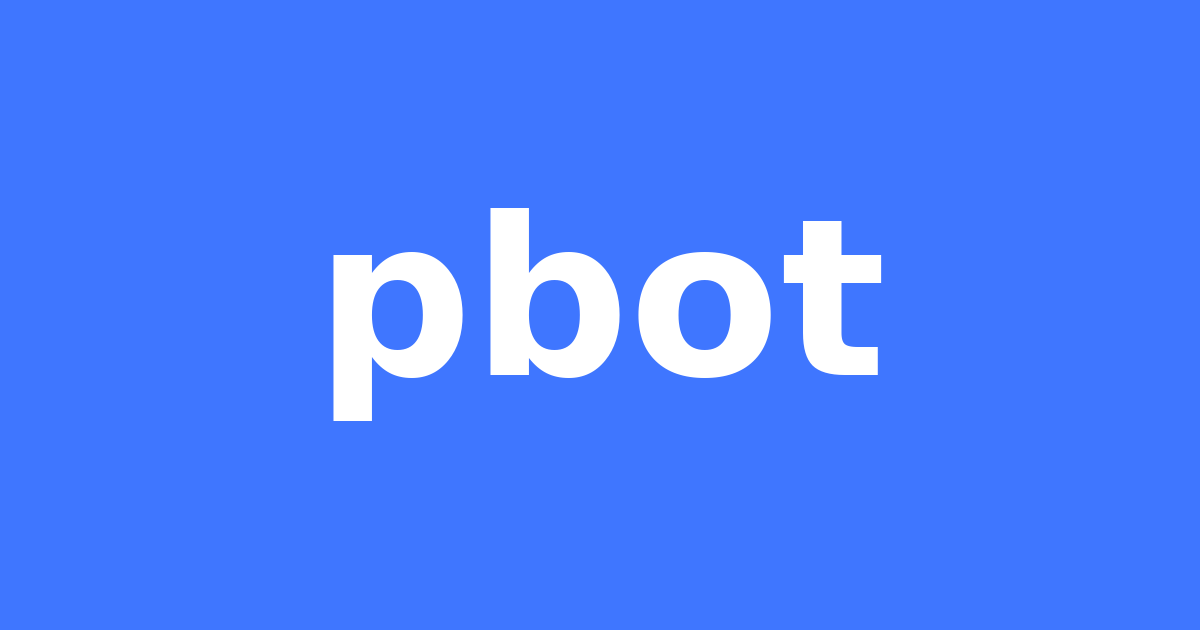
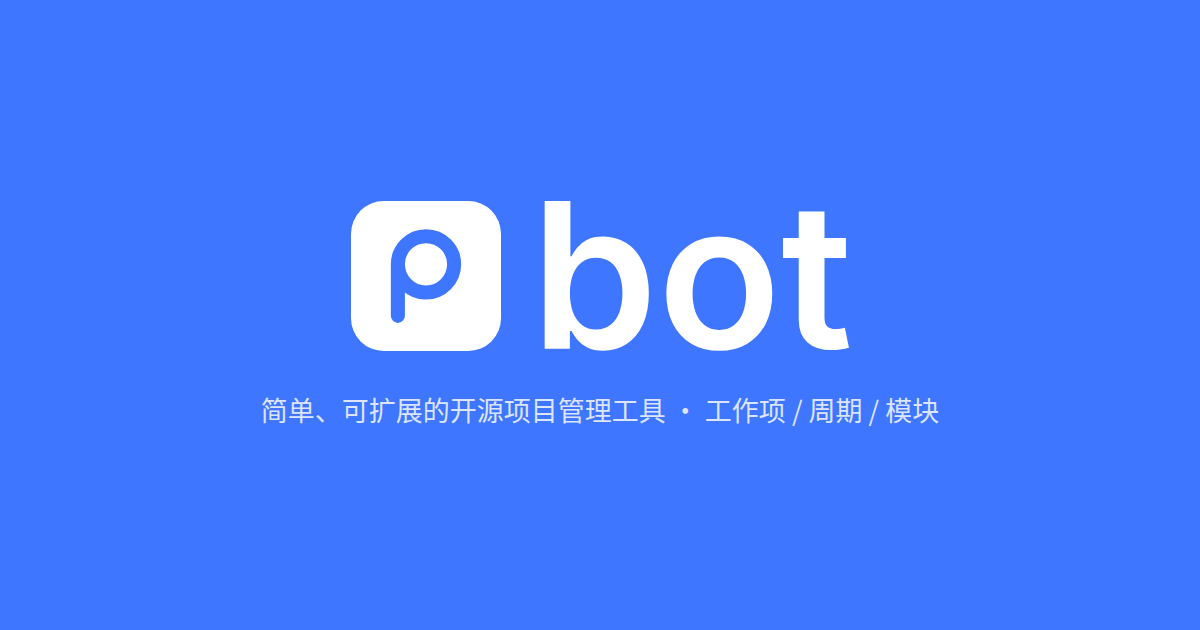
feat(web): branding assets + Dockerfile.web WIP
Replaces app+public brand surfaces (favicons, icons, og-image,
plane-mobile-pwa, gradient-logo) with the planebot mark; carries the
deployed sizes verbatim, no optimization pass.

Consumers:
- common/logo-spinner swaps to the planebot spinner
- workspace/edition-badge: drops the PaidPlanUpgradeModal trigger on
  self-managed instances (instanceConfig.is_self_managed gates it);
  the tooltip aria label is aria_labels.projects_sidebar.edition_badge
- account/auth-forms/mfa: handleCSRFToken gains a Promise<boolean>
  return; cache is dropped on failure and a translated
  auth.mfa.errors.csrf_token banner is shown instead of failing
  silently
- onboarding/header: wires the new branding

Build fix:
- Dockerfile.web now COPY patches patches (root postinstall runs the
  hand-applied patches; without the directory present the pnpm fetch
  cache step had nothing to land against) and pre-builds
  packages/utils so the Next web build has its dist.

Changed region(s): [[0.2158, 0.3016, 0.74, 0.6937], [0.5858, 0.6333, 0.8017, 0.6937]]

diff --git a/apps/web/core/components/workspace/edition-badge.tsx b/apps/web/core/components/workspace/edition-badge.tsx
@@ -10,6 +10,7 @@ import { observer } from "mobx-react";
 import { useTranslation } from "@plane/i18n";
 import { Tooltip } from "@makeplane/propel/components/tooltip";
 // hooks
+import { useInstance } from "@/hooks/store/use-instance";
 import { usePlatformOS } from "@/hooks/use-platform-os";
 import packageJson from "package.json";
 // local components
@@ -19,23 +20,30 @@ import { PaidPlanUpgradeModal } from "@/components/license/modal/upgrade-modal";
 export const WorkspaceEditionBadge = observer(function WorkspaceEditionBadge() {
   // states
   const [isPaidPlanPurchaseModalOpen, setIsPaidPlanPurchaseModalOpen] = useState(false);
+  // store hooks
+  const { config: instanceConfig } = useInstance();
   // translation
   const { t } = useTranslation();
   // platform
   const { isMobile } = usePlatformOS();
+  // This fork has no paid tier of its own: on a self-managed instance the badge is
+  // a version label only and must never lead to a purchase flow.
+  const canUpgradePlan = !instanceConfig?.is_self_managed;
 
   return (
     <>
-      <PaidPlanUpgradeModal
-        isOpen={isPaidPlanPurchaseModalOpen}
-        handleClose={() => setIsPaidPlanPurchaseModalOpen(false)}
-      />
+      {canUpgradePlan && (
+        <PaidPlanUpgradeModal
+          isOpen={isPaidPlanPurchaseModalOpen}
+          handleClose={() => setIsPaidPlanPurchaseModalOpen(false)}
+        />
+      )}
       <Tooltip label={`Version: v${packageJson.version}`} disabled={isMobile}>
         <Button
           variant="tertiary"
           size="lg"
-          onClick={() => setIsPaidPlanPurchaseModalOpen(true)}
-          aria-haspopup="dialog"
+          onClick={canUpgradePlan ? () => setIsPaidPlanPurchaseModalOpen(true) : undefined}
+          aria-haspopup={canUpgradePlan ? "dialog" : undefined}
           aria-label={t("aria_labels.projects_sidebar.edition_badge")}
         >
           Community

diff --git a/apps/web/core/components/account/auth-forms/mfa.tsx b/apps/web/core/components/account/auth-forms/mfa.tsx
@@ -63,12 +63,28 @@ export const MFAForm = observer(function MFAForm() {
     }
   }, [searchParams, t]);
 
-  const handleCSRFToken = async () => {
-    if (!formRef || !formRef.current) return;
-    const token = await csrfPromise;
-    if (!token?.csrf_token) return;
+  const handleCSRFToken = async (): Promise<boolean> => {
+    if (!formRef || !formRef.current) return false;
+
+    let token: { csrf_token?: string } | undefined;
+    try {
+      token = await csrfPromise;
+    } catch (error) {
+      console.error("Could not fetch the CSRF token:", error);
+    }
+
+    if (!token?.csrf_token) {
+      // The rejected promise is what is cached in state, so drop it: the effect
+      // fetches a fresh one and the user's next attempt can succeed instead of
+      // failing silently forever.
+      setCsrfPromise(undefined);
+      setBannerMessage(t("auth.mfa.errors.csrf_token"));
+      return false;
+    }
+
     const csrfElement = formRef.current.querySelector("input[name=csrfmiddlewaretoken]");
-    csrfElement?.setAttribute("value", token?.csrf_token);
+    csrfElement?.setAttribute("value", token.csrf_token);
+    return true;
   };
 
   const isButtonDisabled = isSubmitting || code.trim().length === 0;
@@ -87,7 +103,9 @@ export const MFAForm = observer(function MFAForm() {
         action={`${API_BASE_URL}/auth/mfa/${isRecoveryMode ? "recovery" : "totp"}/`}
         onSubmit={async (event) => {
           event.preventDefault(); // Prevent form from submitting by default
-          await handleCSRFToken();
+          // no token means the server would reject the POST: say so instead of
+          // submitting a form the user cannot succeed with
+          if (!(await handleCSRFToken())) return;
           setIsSubmitting(true);
           if (formRef.current) formRef.current.submit(); // Manually submit the form
         }}

diff --git a/apps/web/core/components/common/logo-spinner.tsx b/apps/web/core/components/common/logo-spinner.tsx
@@ -4,31 +4,6 @@
  * See the LICENSE file for details.
  */
 
-// pbot brand mark with a pulse animation, shown while pages load
-export function LogoSpinner() {
-  return (
-    <div className="flex items-center justify-center">
-      <svg
-        className="h-6 w-auto animate-pulse object-contain sm:h-11"
-        viewBox="0 0 64 64"
-        xmlns="http://www.w3.org/2000/svg"
-        role="img"
-        aria-label="pbot logo"
-      >
-        <rect width="64" height="64" rx="14" fill="#3f76ff" />
-        <text
-          x="32"
-          y="33"
-          textAnchor="middle"
-          dominantBaseline="central"
-          fontFamily="Arial, Helvetica, sans-serif"
-          fontSize="38"
-          fontWeight="700"
-          fill="#ffffff"
-        >
-          p
-        </text>
-      </svg>
-    </div>
-  );
-}
+// The loading mark lives in `@plane/propel` so web / space / admin cannot drift
+// apart; this file stays as the app-local import path (PLANE-59).
+export { LogoSpinner } from "@plane/propel/logo-spinner";

diff --git a/apps/web/core/components/onboarding/header.tsx b/apps/web/core/components/onboarding/header.tsx
@@ -84,7 +84,7 @@ export const OnboardingHeader = observer(function OnboardingHeader(props: Onboar
               <ChevronLeftOutline className="size-6 text-placeholder" />
             </button>
           )}
-          <PlaneLockup height={20} width={95} className="text-primary" />
+          <PlaneLockup className="h-5 w-auto text-primary" />
         </div>
         <SwitchAccountDropdown fullName={userName} />
       </div>
